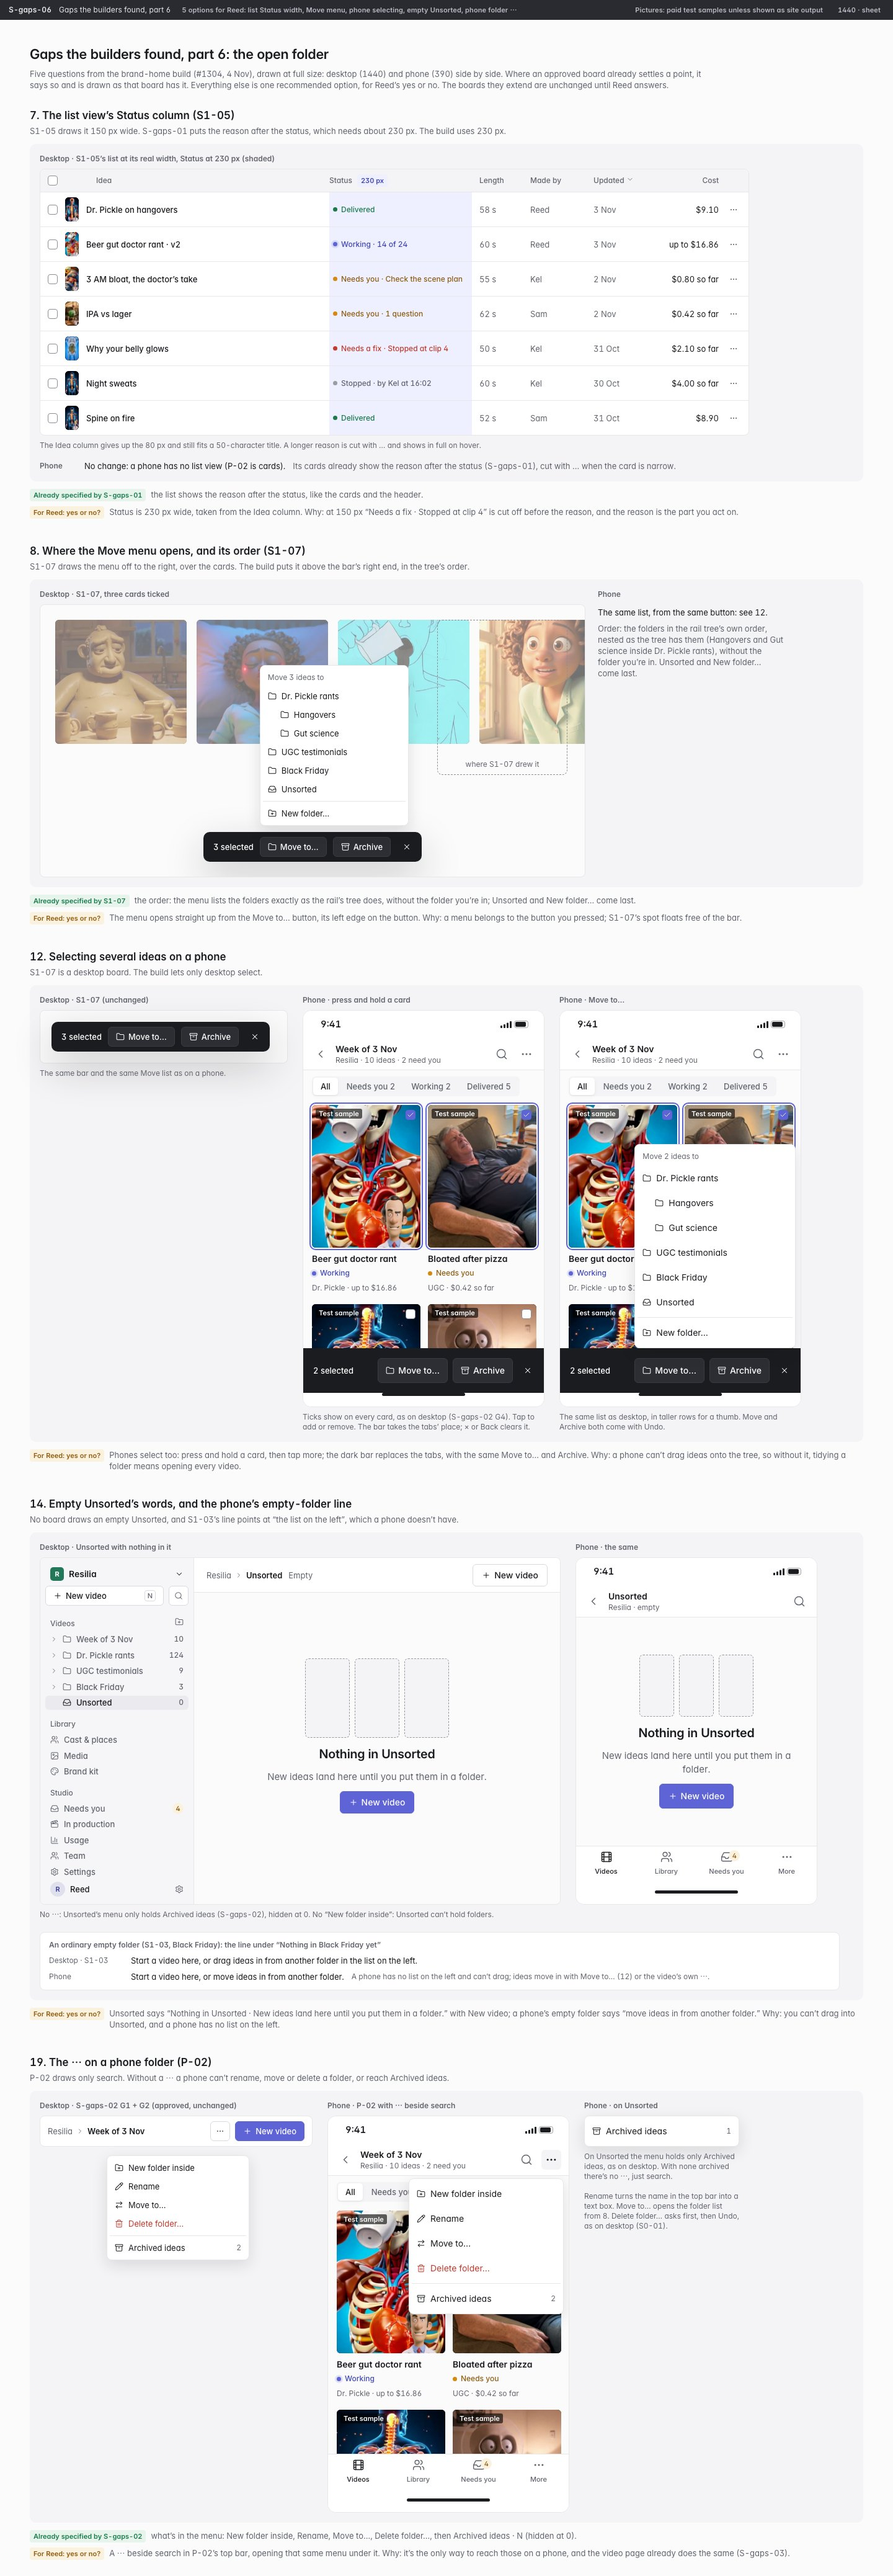
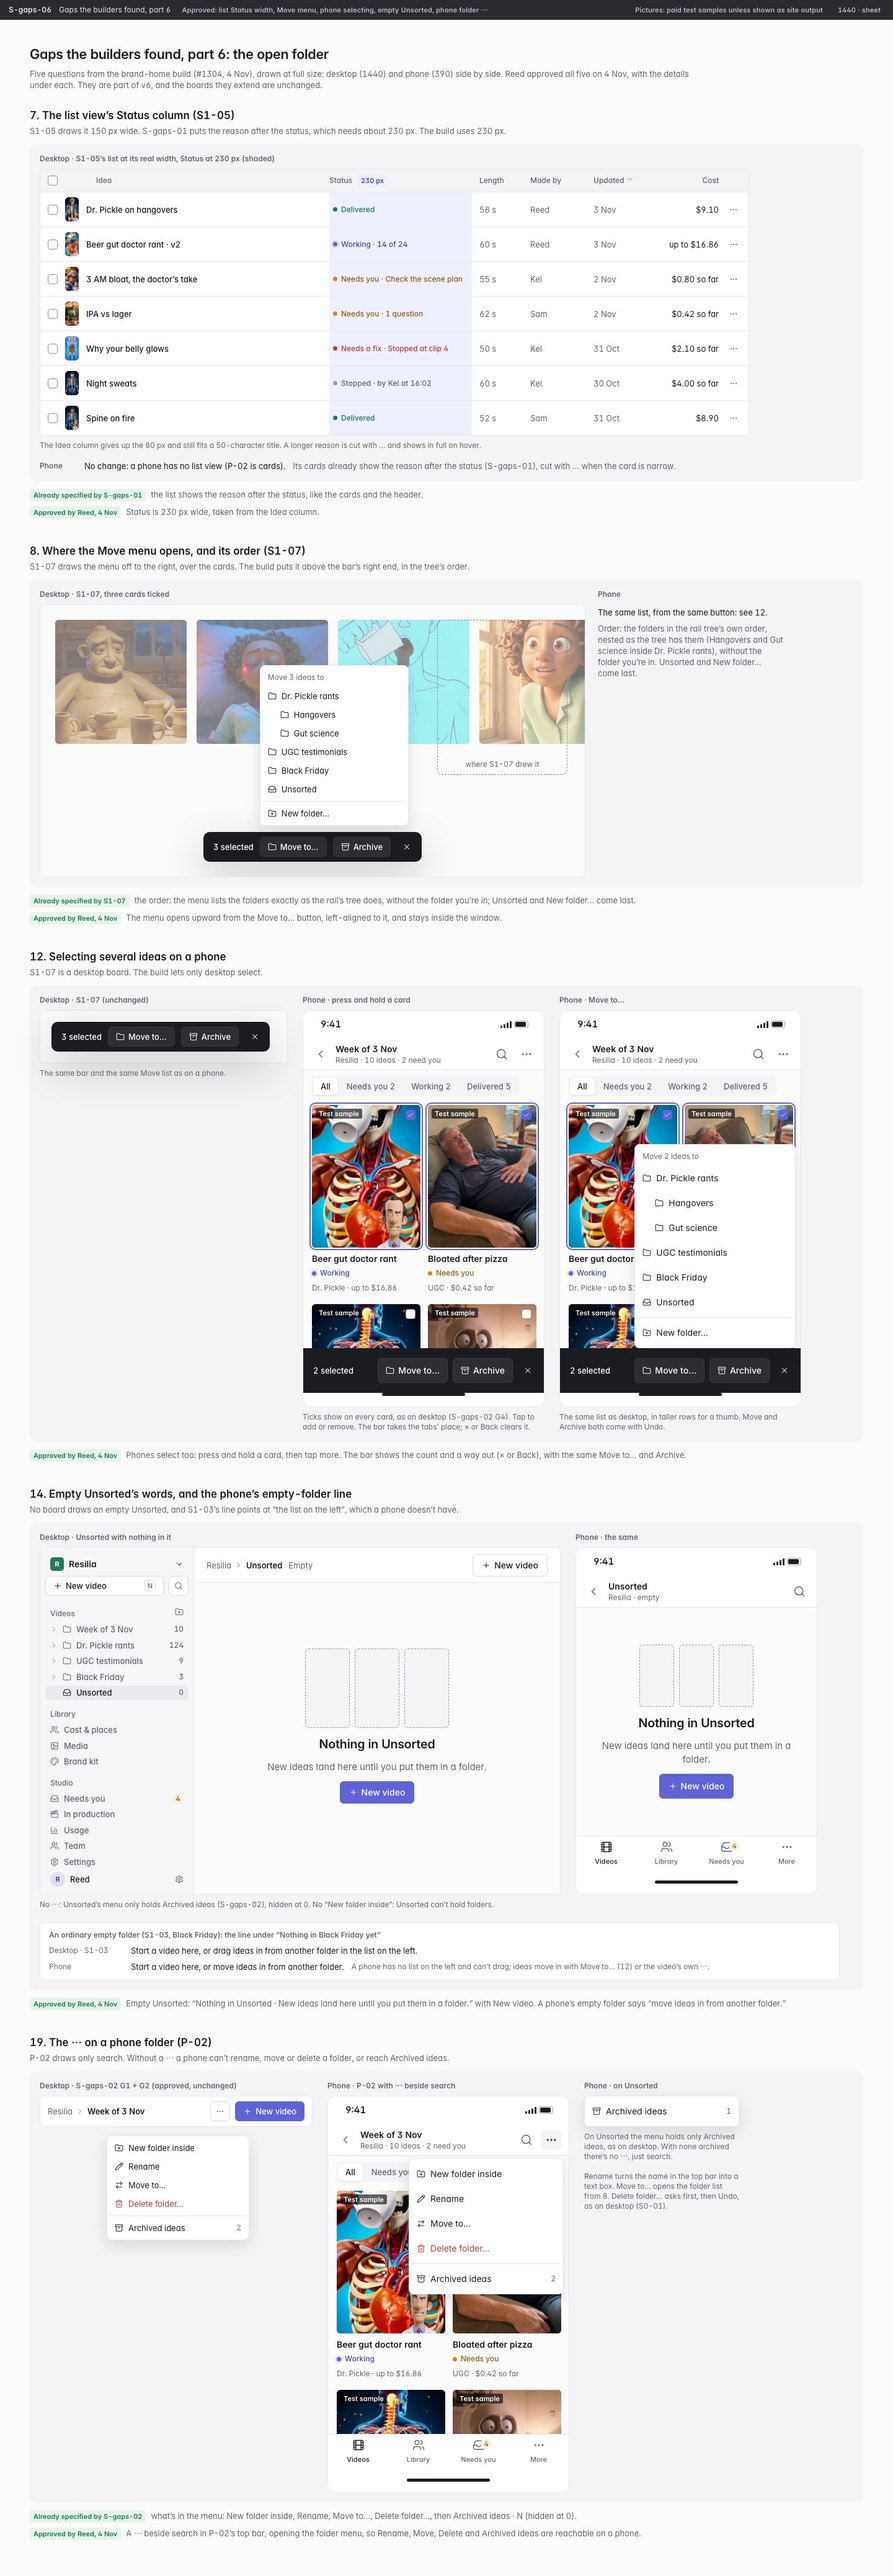
v6: S5-03's Cast & places line, S-gaps-06 marked approved, README index and review.md for S-gaps-03 to 08
S5-03 gets Reed's line (4 Nov). S-gaps-06 records his approval with details.
README lists S-gaps-03 to 08 as approved; review.md lists his 4 Nov answers.

diff --git a/docs/design/v6/src/b_gaps6.py b/docs/design/v6/src/b_gaps6.py
@@ -1,10 +1,10 @@
-"""S-gaps-06: five open-folder details the boards leave open (the brand-home build, #1304, 4 Nov). For Reed's yes or no."""
+"""S-gaps-06: five open-folder details the boards left open (the brand-home build, #1304, 4 Nov). Approved by Reed, 4 Nov."""
 from lib import *
 from b_s01 import IDEAS
 from b_phone import BACK
 
 W = 1344
-ASK = ("need", "For Reed: yes or no?")
+ASK = ("ok", "Approved by Reed, 4 Nov")
 
 
 def cell(n, title, ask, drawn, verdicts, w=W):
@@ -150,21 +150,21 @@ g19 = f'''<div class="row g6 start">
   {side("Phone · P-02 with ⋯ beside search", p19, w=390)}
   {side("Phone · on Unsorted", uns19, w=250)}</div>'''
 
-sheet = f'''<div class="col g2" style="margin-bottom:28px"><span class="t-2xl">Gaps the builders found, part 6: the open folder</span><span class="t-sm muted" style="max-width:1100px">Five questions from the brand-home build (#1304, 4 Nov), drawn at full size: desktop (1440) and phone (390) side by side. Where an approved board already settles a point, it says so and is drawn as that board has it. Everything else is one recommended option, for Reed’s yes or no. The boards they extend are unchanged until Reed answers.</span></div>
+sheet = f'''<div class="col g2" style="margin-bottom:28px"><span class="t-2xl">Gaps the builders found, part 6: the open folder</span><span class="t-sm muted" style="max-width:1100px">Five questions from the brand-home build (#1304, 4 Nov), drawn at full size: desktop (1440) and phone (390) side by side. Reed approved all five on 4 Nov, with the details under each. They are part of v6, and the boards they extend are unchanged.</span></div>
   <div class="col g8" style="row-gap:40px">
   {cell(7, "The list view’s Status column (S1-05)", "S1-05 draws it 150 px wide. S-gaps-01 puts the reason after the status, which needs about 230 px. The build uses 230 px.", g7,
         [("ok", "Already specified by S-gaps-01", "the list shows the reason after the status, like the cards and the header."),
-         (*ASK, "Status is 230 px wide, taken from the Idea column. Why: at 150 px “Needs a fix · Stopped at clip 4” is cut off before the reason, and the reason is the part you act on.")])}
+         (*ASK, "Status is 230 px wide, taken from the Idea column.")])}
   {cell(8, "Where the Move menu opens, and its order (S1-07)", "S1-07 draws the menu off to the right, over the cards. The build puts it above the bar’s right end, in the tree’s order.", g8,
         [("ok", "Already specified by S1-07", "the order: the menu lists the folders exactly as the rail’s tree does, without the folder you’re in; Unsorted and New folder… come last."),
-         (*ASK, "The menu opens straight up from the Move to… button, its left edge on the button. Why: a menu belongs to the button you pressed; S1-07’s spot floats free of the bar.")])}
+         (*ASK, "The menu opens upward from the Move to… button, left-aligned to it, and stays inside the window.")])}
   {cell(12, "Selecting several ideas on a phone", "S1-07 is a desktop board. The build lets only desktop select.", g12,
-        [(*ASK, "Phones select too: press and hold a card, then tap more; the dark bar replaces the tabs, with the same Move to… and Archive. Why: a phone can’t drag ideas onto the tree, so without it, tidying a folder means opening every video.")])}
+        [(*ASK, "Phones select too: press and hold a card, then tap more. The bar shows the count and a way out (× or Back), with the same Move to… and Archive.")])}
   {cell(14, "Empty Unsorted’s words, and the phone’s empty-folder line", "No board draws an empty Unsorted, and S1-03’s line points at “the list on the left”, which a phone doesn’t have.", g14,
-        [(*ASK, "Unsorted says “Nothing in Unsorted · New ideas land here until you put them in a folder.” with New video; a phone’s empty folder says “move ideas in from another folder.” Why: you can’t drag into Unsorted, and a phone has no list on the left.")])}
+        [(*ASK, "Empty Unsorted: “Nothing in Unsorted · New ideas land here until you put them in a folder.” with New video. A phone’s empty folder says “move ideas in from another folder.”")])}
   {cell(19, "The ⋯ on a phone folder (P-02)", "P-02 draws only search. Without a ⋯ a phone can’t rename, move or delete a folder, or reach Archived ideas.", g19,
         [("ok", "Already specified by S-gaps-02", "what’s in the menu: New folder inside, Rename, Move to…, Delete folder…, then Archived ideas · N (hidden at 0)."),
-         (*ASK, "A ⋯ beside search in P-02’s top bar, opening that same menu under it. Why: it’s the only way to reach those on a phone, and the video page already does the same (S-gaps-03).")])}
+         (*ASK, "A ⋯ beside search in P-02’s top bar, opening the folder menu, so Rename, Move, Delete and Archived ideas are reachable on a phone.")])}
   </div>'''
 
-board("S-gaps-06", "Gaps the builders found, part 6", "5 options for Reed: list Status width, Move menu, phone selecting, empty Unsorted, phone folder ⋯", sheet, "s", h=4120)
+board("S-gaps-06", "Gaps the builders found, part 6", "Approved: list Status width, Move menu, phone selecting, empty Unsorted, phone folder ⋯", sheet, "s", h=4120)

diff --git a/docs/design/v6/src/b_s56.py b/docs/design/v6/src/b_s56.py
@@ -76,7 +76,7 @@ def s5_states():
         ("No sheet yet: Clips waits, one press away", role_card(None, "Chase", "Rival · in 4 clips", "Clips 2–4 can’t start without him.", status("need", "Needs a look"),
                                                                 btn("Pick from fomo’s cast", "primary", "users") + btn("Upload", "", "upload") + btn("Make a look", "", "wand-sparkles", "$0.08"), cls="need")),
         ("Editor’s view", role_card("house_marcus_rain", "Marcus", "Main character", "Look made for this video", status("ok", "Approved"), btn("Change this…", "", "pencil", "1 credit"))),
-        ("A brand with no saved characters", f'<div class="role" style="flex-direction:column;align-items:flex-start"><span class="w6">Resilia has no saved characters yet</span><span class="t-sm muted">The director makes looks for this video and asks you to approve them. To reuse a person in every video, add them in Cast &amp; places.</span><div class="row g2">{btn("Open Cast & places","","users")}</div></div>'),
+        ("A brand with no saved characters", f'<div class="role" style="flex-direction:column;align-items:flex-start"><span class="w6">Resilia has no saved characters yet</span><span class="t-sm muted">The director prepares the characters and places. Review them together, request any changes, then approve the cast and places to continue. To reuse a person in every video, add them in Cast &amp; places.</span><div class="row g2">{btn("Open Cast & places","","users")}</div></div>'),
     ]
     cols = [cells[0::2], cells[1::2]]
     c = "".join(f'<div class="col g6" style="width:{W}px">{"".join(f"<div class=\'col g2\'><span class=\'t-sm w6\'>{a}</span>{b}</div>" for a, b in col)}</div>' for col in cols)

diff --git a/docs/design/v6/src/make_readme.py b/docs/design/v6/src/make_readme.py
@@ -9,7 +9,7 @@ for f in sorted(os.listdir(os.path.join(HERE, "html")), key=lambda x: (x.startsw
     rows.append(tuple(html.unescape(x) for x in m.groups()))
 
 SECTIONS = [("S0", "The frame and folder tree"), ("S1", "Brand home: an open folder"), ("S2", "New video"), ("S3", "The video: chat + preview panel"),
-            ("S4", "Ask cards"), ("S5", "Cast and presenter"), ("S6", "Clips"), ("S7", "Cut editor"), ("S8", "Brand library"), ("S9", "Needs you"), ("P-", "Phone (390)"), ("S-gaps", "Gaps the builders found (options for Reed)")]
+            ("S4", "Ask cards"), ("S5", "Cast and presenter"), ("S6", "Clips"), ("S7", "Cut editor"), ("S8", "Brand library"), ("S9", "Needs you"), ("P-", "Phone (390)"), ("S-gaps", "Gaps the builders found (approved by Reed)")]
 
 out = [open(os.path.join(HERE, "README.head.md")).read().rstrip(), ""]
 for pre, name in SECTIONS:

diff --git a/docs/design/v6/review.md b/docs/design/v6/review.md
@@ -72,3 +72,41 @@ Reed said "yes to all" to [S-gaps-02](boards/S-gaps-02.jpg):
 - Unsorted opens on desktop, and the folder list on a phone;
 - the set-up list only while a brand is empty;
 - P-02's phone tabs fixed to All · Needs you · Working · Delivered.
+
+## Gaps the builders found, parts 3 to 8 (4 Nov), approved
+
+Reed said "yes to all" to [S-gaps-03](boards/S-gaps-03.jpg) and [S-gaps-04](boards/S-gaps-04.jpg):
+- the Locks menu, the video's ⋯ menu, and the phone Preview's tab row always showing;
+- Scripts first under Library in the rail, the quick search, the phone's Library and More tabs, and an editor's My requests.
+
+[S-gaps-05](boards/S-gaps-05.jpg), the library and video settings, drawn to his answers:
+- the Brand kit is short (name, logo, colours, tone and rules), and products can be apps (their screens) or physical things (their photos);
+- Import from website is dropped everywhere;
+- a saved presenter is a face and a voice, and each video picks how they appear (talks to camera, in a corner over the B-roll, or acts in the story);
+- every app voice is listed with a free sample, and a brand's own voices are only the ones uploaded or cloned on purpose;
+- each video's settings sit at the top of the Plan tab, with the new price and Undo;
+- a person approves a library sheet before videos use it.
+
+[S-gaps-06](boards/S-gaps-06.jpg), the open folder, approved with these details:
+- the list view's Status column is 230 px, so the reason fits;
+- the Move menu opens upward from the Move to… button, left-aligned to it, and stays inside the window;
+- phones can select several ideas, with a count and a way out;
+- an empty Unsorted reads "Nothing in Unsorted · New ideas land here until you put them in a folder." with New video;
+- a phone folder has a ⋯ beside search, so Archived ideas and the folder's menu are reachable.
+
+[S-gaps-07](boards/S-gaps-07.jpg), the Cast tab:
+- **Places: yes, extended.** Characters and places sit together in the video's Cast. Each is picked from the library, uploaded, or made for this video only, and labelled with where it came from. Looks the director makes in the chat land in the same list. Items made for a video never go into the brand's library by themselves. Places are settings; Plan decides scenes and action.
+- **Approving looks: neither a per-card OK nor no OK.** Instead there is one combined "Approve cast & places":
+  - the full set is shown with previews, made within the budget already approved;
+  - the person requests changes and checks the revised previews, then presses once;
+  - storyboards and clips that use the set wait, and the app enforces that pause;
+  - a later change needs the combined OK again, while unchanged items stay approved and unrelated work carries on;
+  - clips already made are kept, with the ones needing an update and their price shown first;
+  - the person making the video approves, with no extra owner OK for an editor on a published library script;
+  - library sheets keep their own approval.
+- S5-03's line is now: "The director prepares the characters and places. Review them together, request any changes, then approve the cast and places to continue."
+
+[S-gaps-08](boards/S-gaps-08.jpg), the Clips tab:
+- 12 clips or fewer show as a grid, and more than 12 as the list grouped by scene. On a phone the grid is two columns with a clear way back.
+- Earlier stills stay reachable, with no per-still approval list, and the Cast & places check still applies. Each press says whether it needs a new take, with the real "up to" price (credits for editors), and a suitable existing take is reused. A change that would alter an approved character or place goes back to Cast.
+- "Use this take · free" rebuilds the cut automatically, and the previous cut stays playable until the new one is ready. Any paid review follows the budget and approval rules.

diff --git a/docs/design/v6/README.md b/docs/design/v6/README.md
@@ -152,12 +152,17 @@ For Reed. Design only: nothing here is built, and nothing here spent money. Appr
 | [P-14](boards/P-14.jpg) | Owner’s inbox |
 | [P-15](boards/P-15.jpg) | Ask card · options ready |
 
-### Gaps the builders found (options for Reed)
+### Gaps the builders found (approved by Reed)
 
 | Board | State |
 |---|---|
 | [S-gaps-01](boards/S-gaps-01.jpg) | Approved: B-roll look, reel look, upload, status words, sort |
 | [S-gaps-02](boards/S-gaps-02.jpg) | Approved: folder menu and Archived, checkboxes, no folder picked, set-up list, phone tabs |
-| [S-gaps-03](boards/S-gaps-03.jpg) | 3 options for Reed: Locks menu, the video’s ⋯ menu, phone Preview tabs |
+| [S-gaps-03](boards/S-gaps-03.jpg) | Approved: Locks menu, the video’s ⋯ menu, phone Preview tabs |
+| [S-gaps-04](boards/S-gaps-04.jpg) | Approved: Scripts in the rail, quick search, phone Library and More, My requests |
+| [S-gaps-05](boards/S-gaps-05.jpg) | Approved: short brand kit, no import, presenter = face + voice, every voice, video settings, a person approves sheets |
+| [S-gaps-06](boards/S-gaps-06.jpg) | Approved: list Status width, Move menu, phone selecting, empty Unsorted, phone folder ⋯ |
+| [S-gaps-07](boards/S-gaps-07.jpg) | Approved: characters and places in Cast, one combined Approve cast & places |
+| [S-gaps-08](boards/S-gaps-08.jpg) | Approved: grid or list, earlier stills, Use this take |
 
-80 boards in all: 65 desktop (1440) and sheets, 15 phone (390).
+85 boards in all: 70 desktop (1440) and sheets, 15 phone (390).
